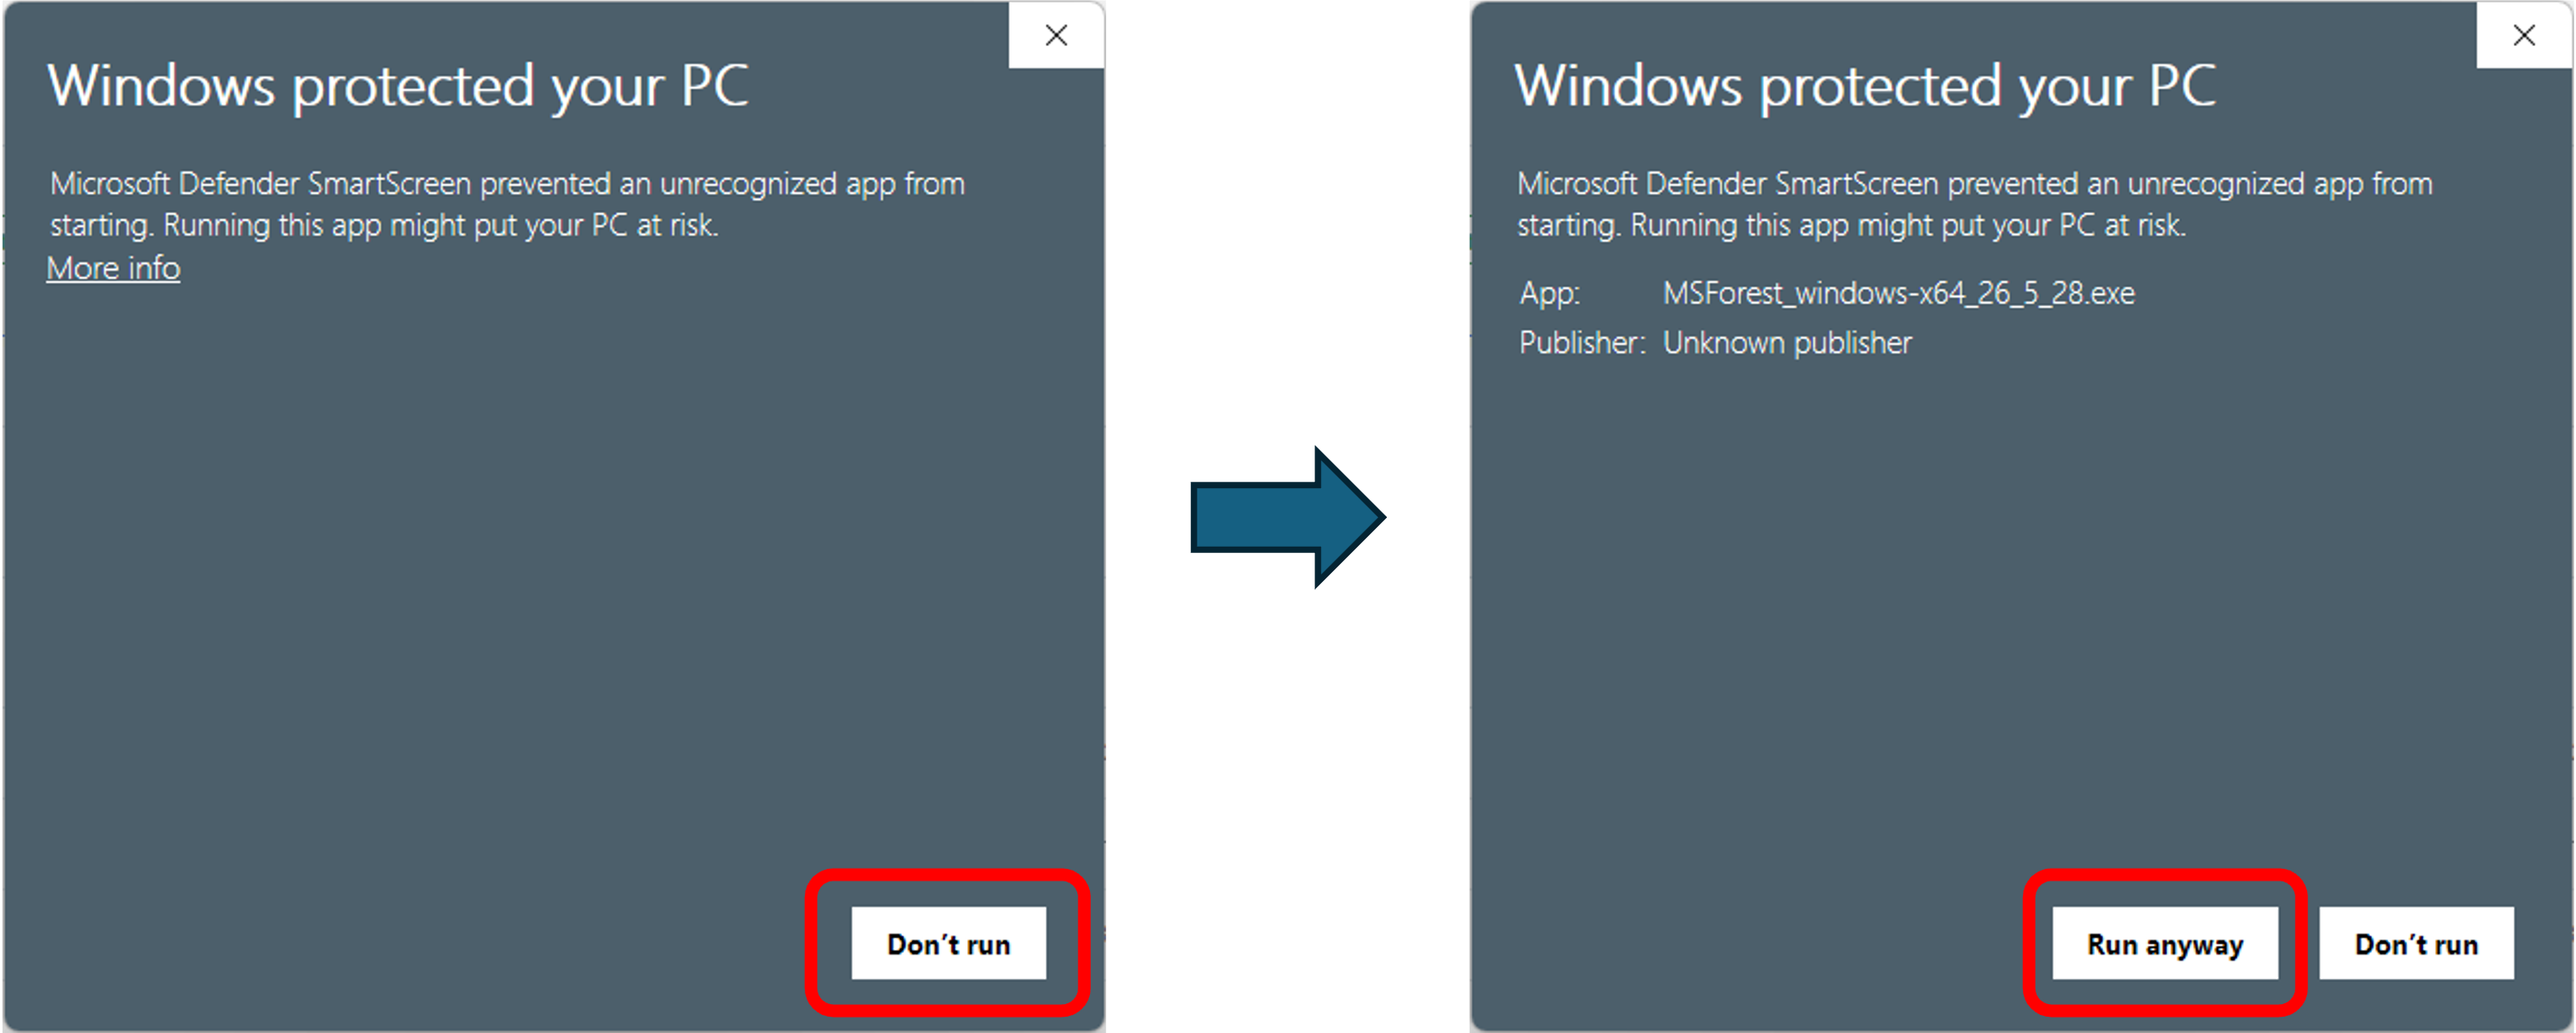
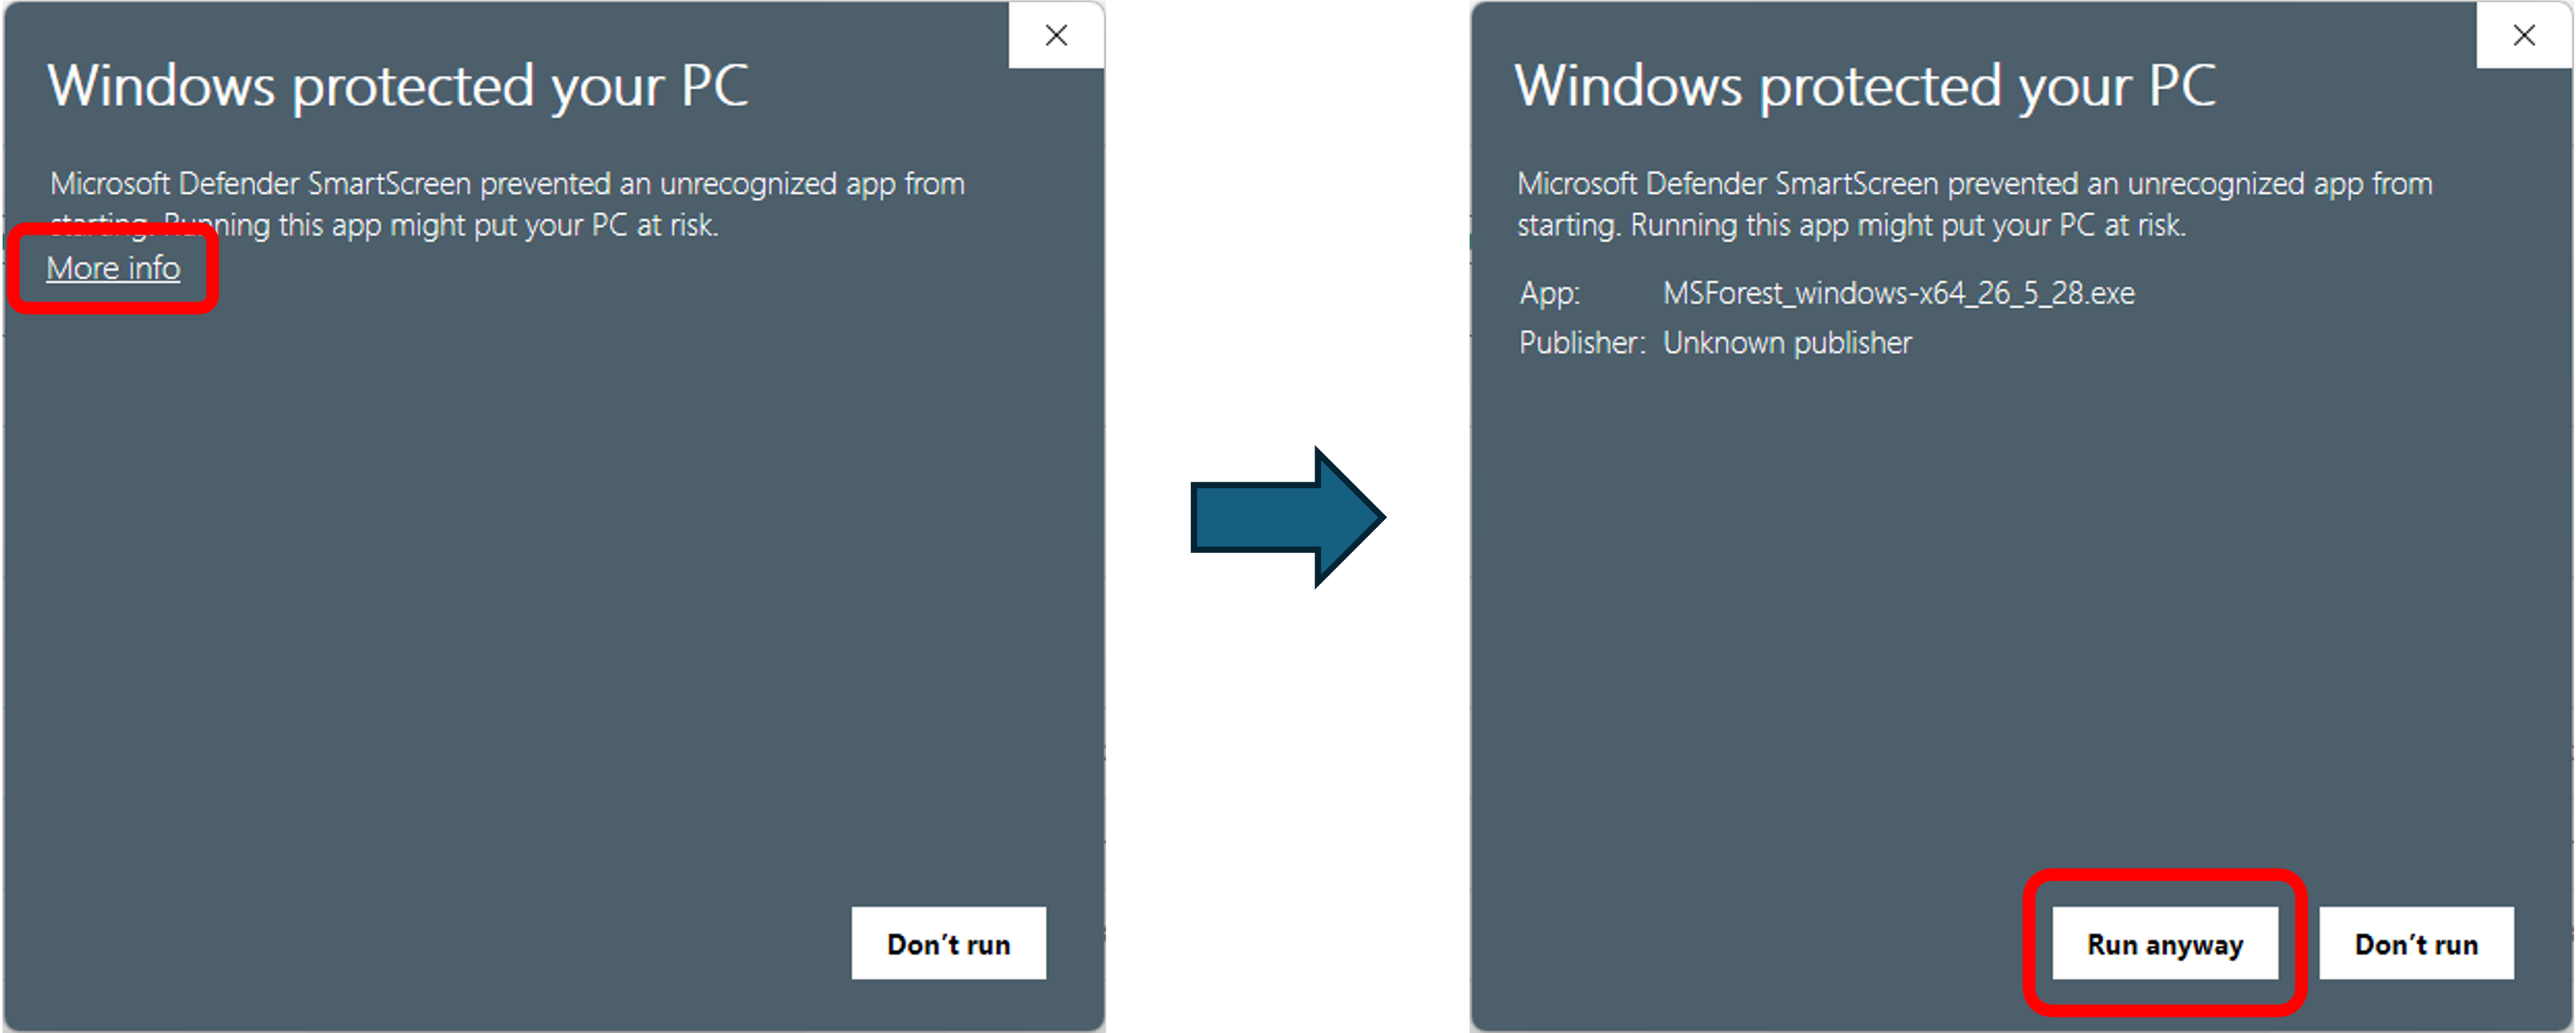
updates to image assets

Changed region(s): [[0.3117, 0.8253, 0.4364, 1.0], [0.0, 0.214, 0.0935, 0.3057]]

diff --git a/docs/images/figure-legends.md b/docs/images/figure-legends.md
@@ -1,0 +1,46 @@
+# Image notes
+
+how-to-run-mac.png
+- compound image, on the mac you need to open the .dmg, but the operating system will block it. Open "Privacy & Security" in "System Settings" and scroll to the bottom. The file should have a button "Open Anyway" (circled in red)
+
+how-to-run-windows.png
+- compound image, on Windows, you'll need to click "More info", and then "Run anyway" (both circled in red)
+
+main-visualization-about.png
+- single image, shows how to cite
+
+main-visualization-console.png
+- single image, shows an example of what the console looks like
+
+main-visualization-layout.png
+- compound image, shows the main visualization with a-d highlighted. a) file browser to switch to directories, b) files in the selected directory, c) conversion options and task list, including console, and d) working readers green lights panel.
+
+main-visualization-parameters.png
+- compound image, shows preferences a-c. a) Processing, b) conversion, c) GUI
+
+main-visualization-tracking-consistency.png
+- compound image, showing only the main-visualization table with a-c highlighted. a) search bar for file names, b) vendor dropdown, c) file list showing spark charts are good for quickly spot checking consistency and errors
+
+raw-file-global-structure.png
+- single image, shows global structure of a heavy/light PRM with retention time scheduling.
+
+raw-file-iit.png
+- single image, range statistics for an Orbitrap DIA run showing IIT across m/z window and retention time range. Boxplots show median (line) in the middle of the red shaded range.
+
+raw-file-layout.png
+- compound image, showing the raw file visualizer with a-e highlighted. a) the scan list. b) the scan type dropdown for selecting MS1, MS2, etc. c) the search bar to search for a specific scan number. d) The tabs: Scans, Range Statistics, Structure, Global, Settings. e) The main visualization GUI region (switch depending on the tab).
+
+raw-file-peptide-xic.png
+- compound image, showing a-b highlighted. a) VATVSLPR extracted at the MS1 level. b) VATVSLPR extracted at the MS2 level. Useful for checking spray instability, peak width, tailing, etc. MS1/MS2 spectra show highlighted peaks corresponding to the XICs.
+
+raw-file-settings.png
+- compound image, showing a-b highlighted. a) the general parameters available to all raw files. b) Thermo-specific parameters showing complete LC and MS settings.
+
+raw-file-small-mol-xic.png
+- compound image, showing a-b highlighted. a) polysiloxanes eluting across the entire retention time shows consistent atmospheric contamination. XICs generated using chemical structures. b) PEG (polyethylene glycol) XICs showing elution patterns of 415.254, 459.280, 503.306, and 547.332, a common contaminant polymer in samples.
+
+raw-file-structure.png
+- single image showing window structure in the first 2.4 seconds of retention time (two full cycles). MS1s are in gray and MS2s are in purple.
+
+raw-file-timstof.png
+- compound image, showing a-c highlighted. a) shows the selected MS1 (or MS2) at 54.275 minutes (clicked on in the TIC chart), b) shows the 2D IMS peak chart. c) Shows the intensity histogram of the first 10000 ions is a set of compound distributions with many low intensity peaks.
